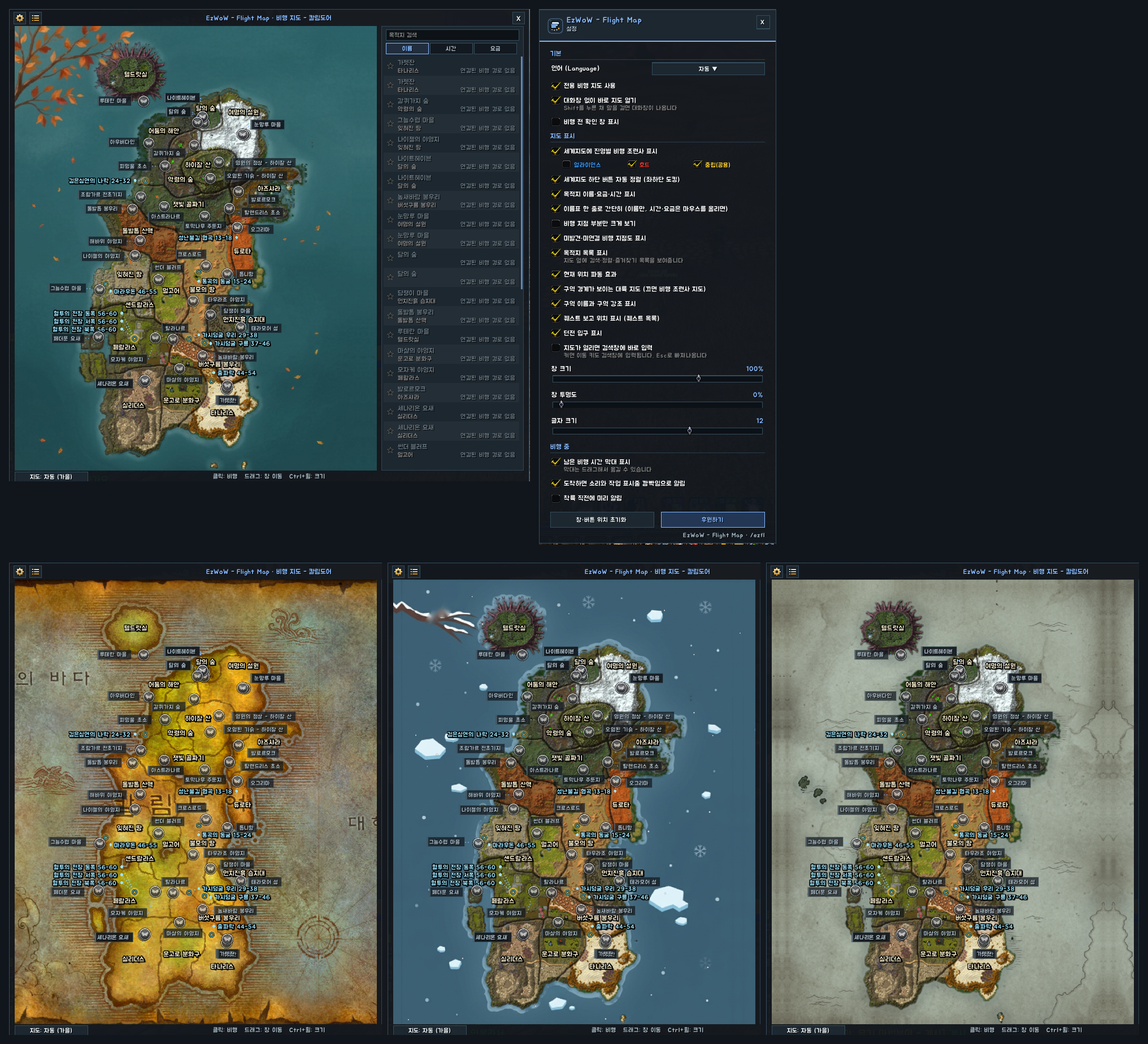
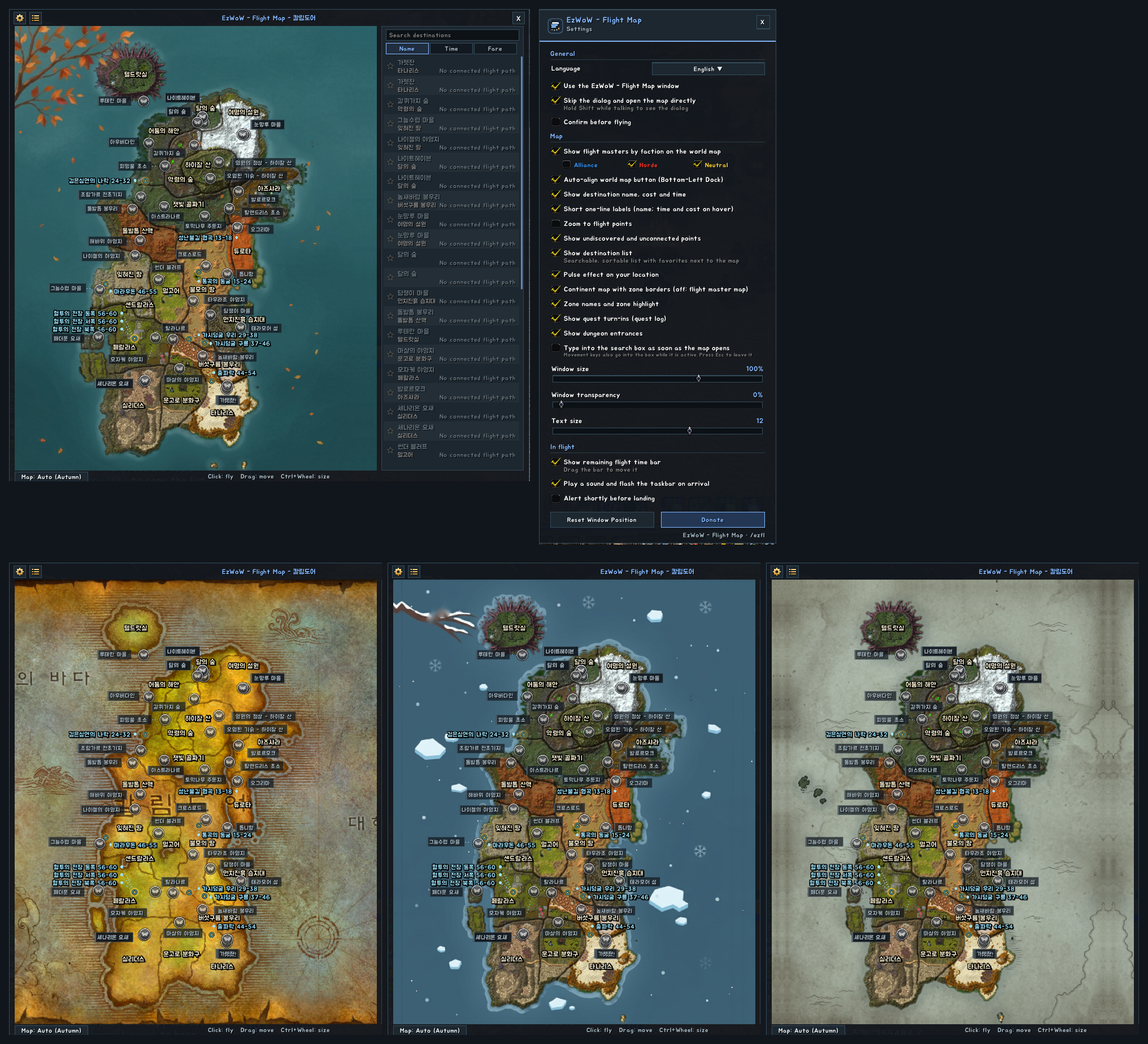
영어 설명용 게임 화면 추가

diff --git a/docs/curseforge_description.md b/docs/curseforge_description.md
@@ -11,7 +11,7 @@ When you talk to a flight master (gryphon, wyvern, bat or hippogryph), a dedicat
 
 ![Flight map, settings and map looks](https://raw.githubusercontent.com/qqhrqqhr2/EzWoW-FlightMap/master/docs/images/ui_en.png)
 
-*In-game screenshots (WoW Forever, Korean client). Character and player names and chat text are blurred.*
+*In-game screenshots with the addon set to English. The game client is Korean, so game text such as zone, item and spell names stays Korean. Character and player names and chat text are blurred.*
 
 ## Features
 

diff --git a/README.md b/README.md
@@ -155,7 +155,7 @@ When you talk to a flight master (gryphon, wyvern, bat or hippogryph), Flight Ma
 
 ![Flight map](docs/images/ui_en.png)
 
-> In-game screenshots (WoW Forever, Korean client). Character and player names and chat text are blurred.
+> In-game screenshots with the addon set to English. The game client is Korean, so game text such as zone, item and spell names stays Korean. Character and player names and chat text are blurred.
 
 ### Installation
 
